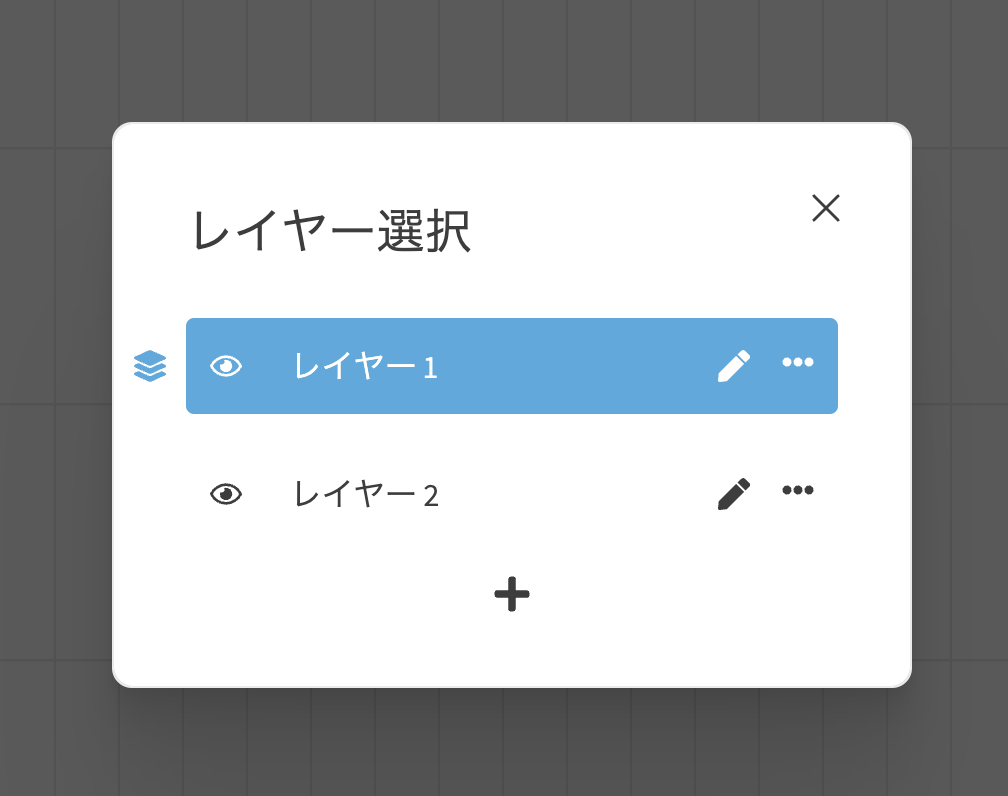
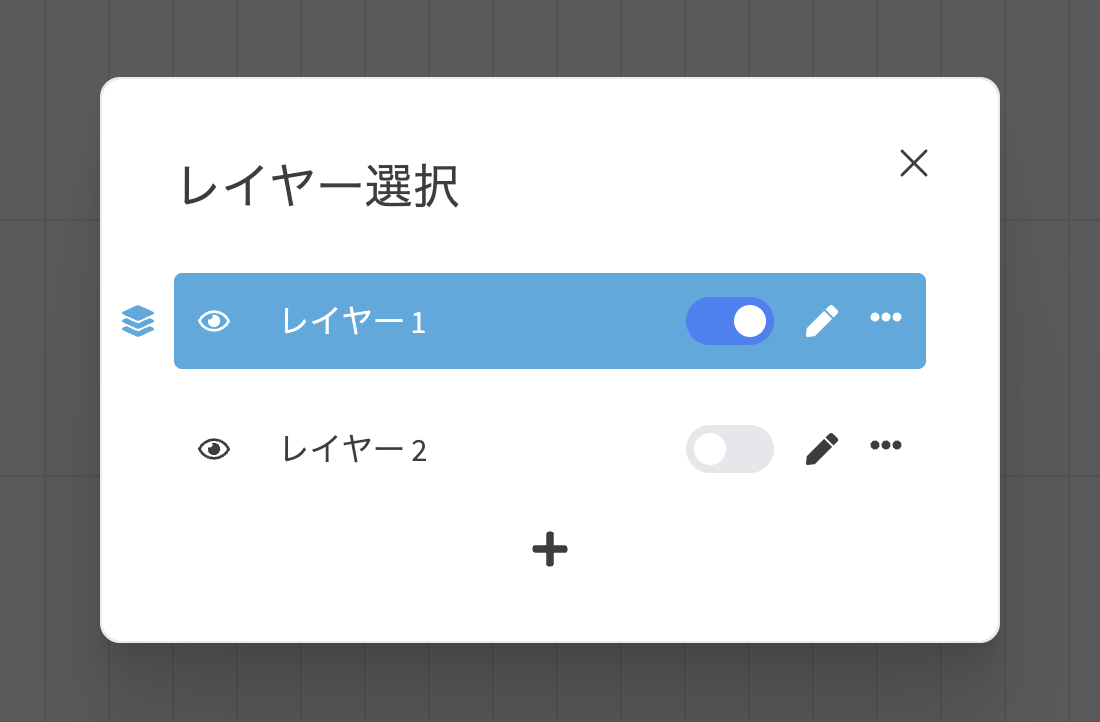
新機能の反映

diff --git a/projects/layer/index.md b/projects/layer/index.md
@@ -85,6 +85,29 @@ has_children: false
 {: .note }
 タスクが所属するレイヤーはサイドバーに表示されます。
 
+## レイヤーに属するタスクの有効/無効の切り替え
+
+1. キャンバス右下にある[レイヤー]アイコンをクリックします。
+
+   <table><tr><td>
+   <img src="/assets/images/projects/layer/1.png" width="52px">
+   </td></tr></table>
+
+2. タスクの有効/無効を切り替えたいレイヤーの[スイッチ]ボタンをクリックします。
+
+   <table><tr><td>
+   <img src="/assets/images/projects/layer/8.png" width="60%">
+   </td></tr></table>
+
+   [スイッチ]ボタンの状態が変わり、レイヤーに属するタスクが以下のように変わります。
+
+|                              | 無効 | 有効 |
+| :------------------------------------- | :----- | :----- |
+| ダッシュボードの最新の更新への反映          | ×      | ⚪      |
+| タスク更新時のメール通知                  | ×      | ⚪      |
+| ロードマップへの反映                     | ×      | ⚪      |
+| リソースへの反映                         | ×      | ⚪      |
+
 ## レイヤー名の編集
 
 1. キャンバス右下にある[レイヤー]アイコンをクリックします。
@@ -96,7 +119,7 @@ has_children: false
 2. 編集したいレイヤーの[鉛筆]アイコンをクリックします。
 
    <table><tr><td>
-   <img src="/assets/images/projects/layer/8.png" width="60%">
+   <img src="/assets/images/projects/layer/9.png" width="60%">
    </td></tr></table>
 
 3. タイトルを入力し、Enterキーを押して編集を終了します。
@@ -112,7 +135,7 @@ has_children: false
 2. 削除したいレイヤーの[...]のドロップダウンメニューから[削除]ボタンをクリックします。
 
    <table><tr><td>
-   <img src="/assets/images/projects/layer/9.png" width="60%">
+   <img src="/assets/images/projects/layer/10.png" width="60%">
    </td></tr></table>
 
 {: .warning }

diff --git a/resources/index.md b/resources/index.md
@@ -86,7 +86,8 @@ has_children: true
 
   | 検索項目 | 検索結果 |
   | ---- | ---- |
-  | 担当者 | タスクに登録された担当者で検索できます。 |
+  | 担当者 | タスクに登録された担当者で検索することができます。 |
+  | チーム | タスクに登録された担当者をチーム単位で検索することができます。 |
   | リソース | タスクに登録された関連リソースで検索することができます。 |
   | タグ | リソースのタグで検索することができます。 |
   | プロジェクト | 特定のプロジェクトで検索することができます。 |

diff --git a/CHANGELOG.md b/CHANGELOG.md
@@ -7,6 +7,12 @@ layout: default
 
 <!-- All notable user-facing changes to this project are documented in this file. -->
 
+## Release v1.5.2
+
+### 新機能
+- リソース画面でタスクに登録された担当者をチーム単位で検索できるようになりました
+- [レイヤーに属するタスクの有効/無効の切り替え](/projects/layer/#レイヤーに属するタスクの有効無効の切り替え)ができるようになりました
+
 ## Release v1.5.1
 
 ### 新機能
